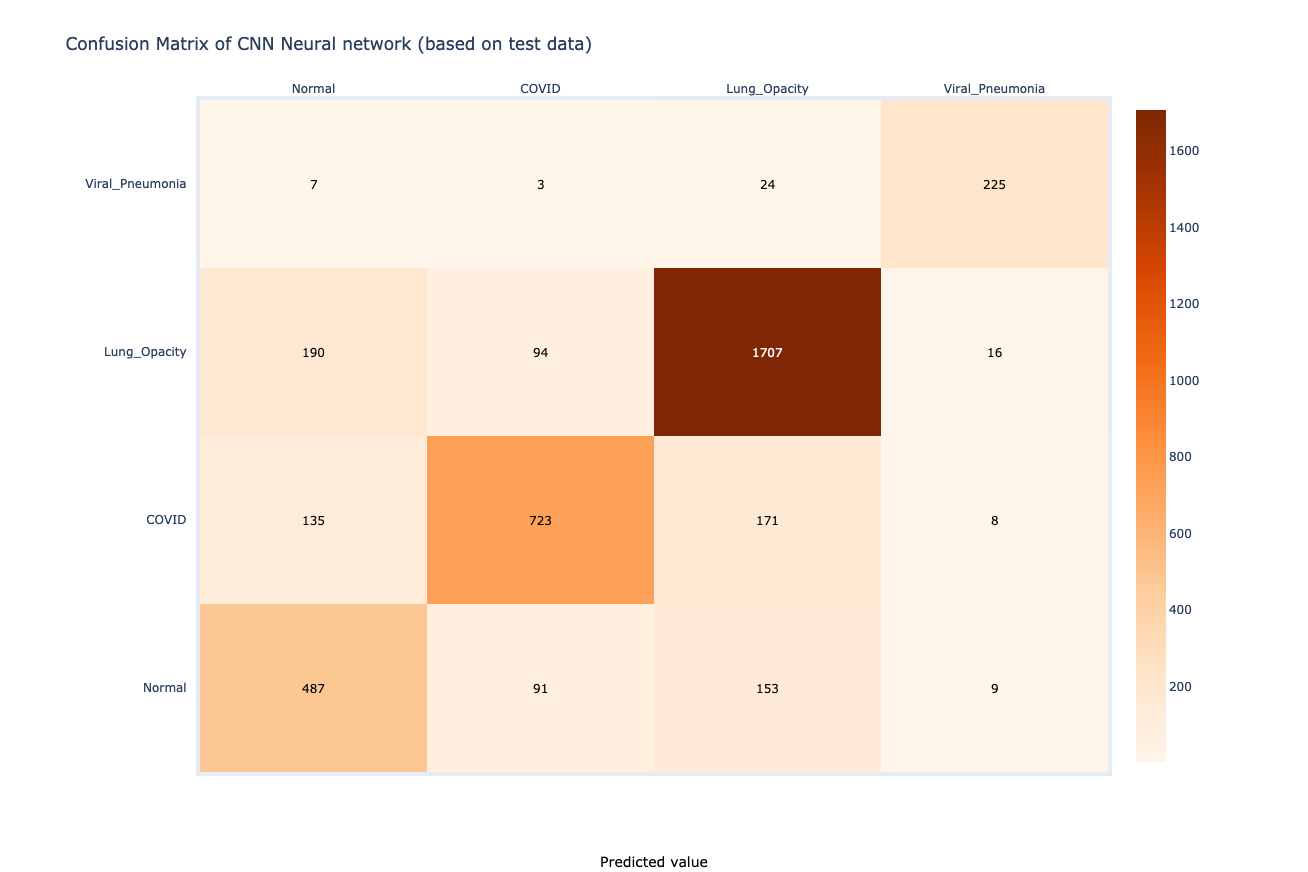
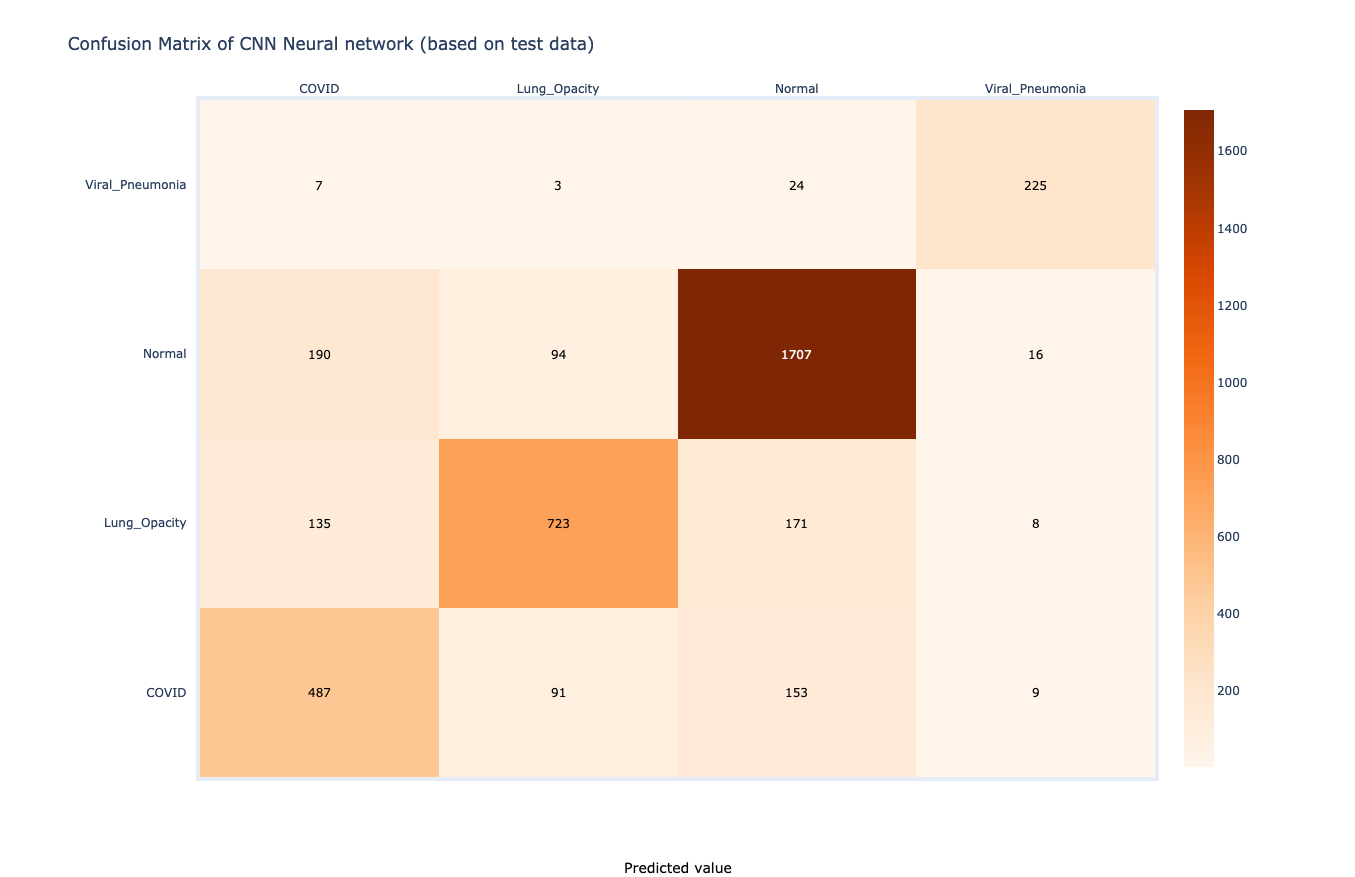
[Fix] Visualization corrected labels

diff --git a/visualization/scripts/radiography_visualization.py b/visualization/scripts/radiography_visualization.py
@@ -350,7 +350,7 @@ def visualize_dl_classification_accuracy():
     dataframe_pd = load_dataset(sys.argv[1], "dl_classification_accuracy")
     array_pd = dataframe_pd.values.tolist()
 
-    classes = [CLASSNAME_VIRAL_PNEUMONIA, CLASSNAME_COVID19, CLASSNAME_NORMAL, CLASSNAME_LUNG_OPACITY,  CLASSNAME_TOTAL]
+    classes = [CLASSNAME_COVID19, CLASSNAME_LUNG_OPACITY, CLASSNAME_NORMAL, CLASSNAME_VIRAL_PNEUMONIA, CLASSNAME_TOTAL]
 
     accuracy_report = []
     for i in range(len(array_pd)):
